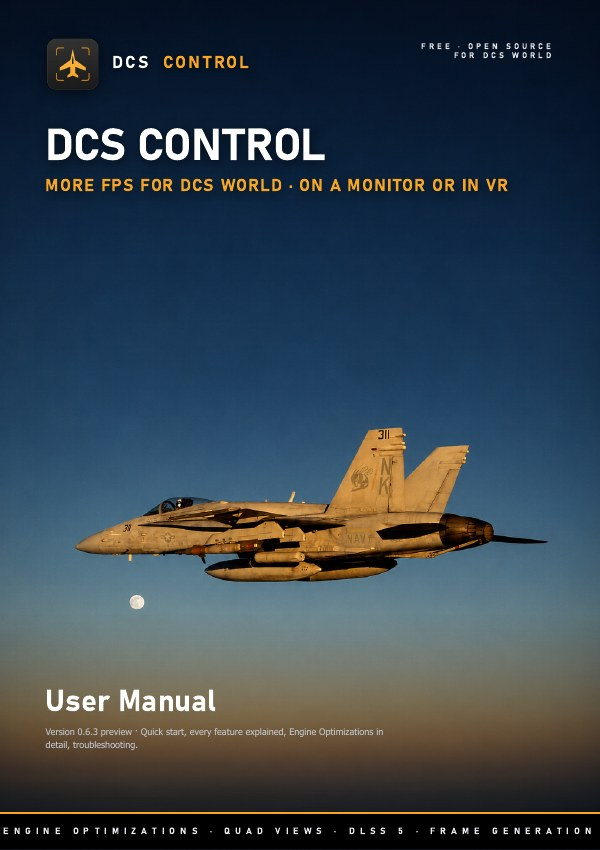
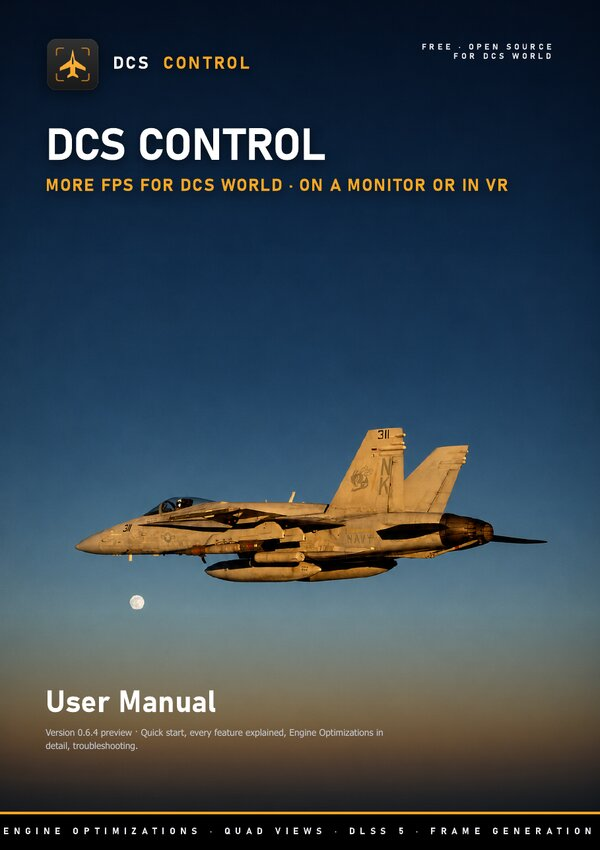
0.6.4 preview: README, guide and manual cover

diff --git a/README.md b/README.md
@@ -5,7 +5,7 @@ A free Windows app for DCS World that runs **DLSS 5, frame generation and Quad V
 - **Every pilot** (monitor, Quest, Varjo, Reverb, Pimax…): **Engine Optimizations** remove CPU work inside DCS without changing the image, about **+50-60 % FPS** at a busy airfield when DCS is CPU-bound. Once applied they stay on every time DCS starts, also from Steam or a desktop shortcut.
 - **Pimax pilots** get the full VR pipeline in one go: **Quad Views** (eye-tracked foveated rendering) + **DLSS 5** (NVIDIA neural rendering on the area you look at) + **frame generation** (OFXR, generated only when DCS falls behind), working together, plus an in-headset panel that shows what each one is doing.
 
-**New in 0.6.3:** Back to stock DCS also cleans up after a lost record (a reinstalled Windows), a new release signing key (install 0.6.3 by hand once), updates no longer pile up copies of older versions, and a bug-fix round (eye tracking on setups that report the gaze reversed, the headset panel's frame generation multiplier). 0.6.2 brought live changes while you fly and DCS 2.9.31 support.
+**New in 0.6.4:** Engine Optimizations warm up faster and keep their shader cache across Back to stock DCS (with the progress shown in the app and the headset panel), the Last flight card says whether they really ran, and frame generation's Only when needed gets **Stop generating** (Balanced by default), so a PC that just holds the refresh rate flies at its full rate instead of being held at half. Fixes: Pimax Quad View presets (a far too large focus area), DCS staying open after quitting, and an AMD Radeon note with an opt-in. 0.6.3 brought a new release signing key and Back to stock after a lost record.
 
 **New in 0.6.1:** a clearer, more compact interface (grouped menu, greyed-out settings say why, a to-scale coverage preview) and support for NVIDIA's newer DLSS 5 runtime 310.9.
 
@@ -16,7 +16,7 @@ Everything the app changes is backed up and comes back with **Back to stock DCS*
 > **Early beta.** Flown mostly on one PC so far (Pimax Crystal Super, RTX 5090, Windows 11, DCS 2.9 Steam, single player), so expect rough edges. It was built with an AI coding assistant. Bug reports are very welcome: see [Reporting a problem](docs/USER_GUIDE.md#reporting-a-problem).
 
 <p align="center">
-  <a href="https://github.com/NIGos/dcs-control/releases/download/v0.6.3-preview/DcsControl-0.6.3-User-Manual.pdf"><img src="docs/screenshots/manual-cover.jpg" alt="DCS Control User Manual (PDF)" width="300"></a><br>
+  <a href="https://github.com/NIGos/dcs-control/releases/download/v0.6.4-preview/DcsControl-0.6.4-User-Manual.pdf"><img src="docs/screenshots/manual-cover.jpg" alt="DCS Control User Manual (PDF)" width="300"></a><br>
   <sub><b>User Manual (PDF, 31 pages)</b>: Quick Start, every page of the app, the Engine Optimizations explained</sub>
 </p>
 
@@ -64,12 +64,12 @@ After each flight the Overview shows a **Last flight** summary.
 ## Quick start
 
 1. **You need:** Windows 10 or 11 (64-bit; tested on 11) and DCS World 2.9. Engine Optimizations and CPU Boost run with any graphics card; on AMD Radeon cards the multi-threaded shadows and G-buffer stay off by default (the driver lacks D3D11 command lists), so the gain is smaller. An opt-in on the Engine Optimizations page runs them on lists Windows emulates, with a smaller gain than on NVIDIA; Radeon cards have not been tested yet. For the VR features: a Pimax headset with Pimax Play (or SteamVR with the Sboys driver) and an NVIDIA RTX GPU; for DLSS 5 your own `nvngx_dlssnr.dll` (310.8, tested most, or the newer 310.9; not included).
-2. **Download** `DcsControl-0.6.3-preview-Setup.exe` from [Releases](https://github.com/NIGos/dcs-control/releases) and double-click it: it installs DCS Control for your Windows user (no administrator rights) in the folder you choose, with Start menu and desktop shortcuts, then opens it. Uninstall it from Settings → Apps. Or take `DcsControl-0.6.3-preview-win-x64.zip` for a portable copy: unzip it anywhere and double-click `DcsControl.exe` (keep the `files` folder next to it). The app tells you when a newer release is out and updates itself after checking the release signature.
+2. **Download** `DcsControl-0.6.4-preview-Setup.exe` from [Releases](https://github.com/NIGos/dcs-control/releases) and double-click it: it installs DCS Control for your Windows user (no administrator rights) in the folder you choose, with Start menu and desktop shortcuts, then opens it. Uninstall it from Settings → Apps. Or take `DcsControl-0.6.3-preview-win-x64.zip` for a portable copy: unzip it anywhere and double-click `DcsControl.exe` (keep the `files` folder next to it). The app tells you when a newer release is out and updates itself after checking the release signature.
 3. **Choose how you fly** in the right panel: **Pimax**, **Sboys**, or **Optimizations only** (monitor or another headset). **Guided setup** (on the Overview) or **Read settings from this PC** (on the DCS & headset page) can do it for you.
 4. **Tick the features** you want. Each one has its own page if you want to adjust it.
 5. **Press Launch DCS.** Engine Optimizations then stay on whenever DCS starts. The VR features and CPU Boost need DCS to be started from the app.
 
-The **[User Guide](docs/USER_GUIDE.md)** explains every feature, what it costs, the in-flight keys, and what to do when something goes wrong. Prefer to read it as a book? The **[User Manual (PDF)](https://github.com/NIGos/dcs-control/releases/download/v0.6.3-preview/DcsControl-0.6.3-User-Manual.pdf)** has a three-page Quick Start, every page of the app with numbered screenshots, and the Engine Optimizations explained one by one.
+The **[User Guide](docs/USER_GUIDE.md)** explains every feature, what it costs, the in-flight keys, and what to do when something goes wrong. Prefer to read it as a book? The **[User Manual (PDF)](https://github.com/NIGos/dcs-control/releases/download/v0.6.4-preview/DcsControl-0.6.4-User-Manual.pdf)** has a three-page Quick Start, every page of the app with numbered screenshots, and the Engine Optimizations explained one by one.
 
 ## Good to know
 

diff --git a/docs/USER_GUIDE.md b/docs/USER_GUIDE.md
@@ -1,6 +1,6 @@
 # DCS Control — User Guide
 
-**Version 0.6.3-preview (early beta).** This guide is for pilots. It explains what the app does, how to set it up and how to get help. Developer documentation lives in the [README](../README.md#for-developers) and the other files in `docs/`. The same content as a printable book, with a Quick Start and numbered screenshots: **[User Manual (PDF)](https://github.com/NIGos/dcs-control/releases/download/v0.6.3-preview/DcsControl-0.6.3-User-Manual.pdf)**.
+**Version 0.6.4-preview (early beta).** This guide is for pilots. It explains what the app does, how to set it up and how to get help. Developer documentation lives in the [README](../README.md#for-developers) and the other files in `docs/`. The same content as a printable book, with a Quick Start and numbered screenshots: **[User Manual (PDF)](https://github.com/NIGos/dcs-control/releases/download/v0.6.3-preview/DcsControl-0.6.3-User-Manual.pdf)**.
 
 > **Early beta.** DCS Control has been flown mostly on one PC (Pimax Crystal Super, RTX 5090, DCS 2.9 Steam edition). Expect rough edges. Every file it changes is backed up and can be put back with one click (**Back to stock DCS**), so trying it is safe — but please read [Requirements](#requirements) and [Launch DCS](#launch-dcs) before your first flight.
 
@@ -62,7 +62,7 @@ What it does **not** do: it does not change Windows settings, your GPU driver se
 
 ## Install
 
-**With the setup (recommended):** download `DcsControl-0.6.3-preview-Setup.exe` from the [Releases page](https://github.com/NIGos/dcs-control/releases) and double-click it. Its first page lets you choose:
+**With the setup (recommended):** download `DcsControl-0.6.4-preview-Setup.exe` from the [Releases page](https://github.com/NIGos/dcs-control/releases) and double-click it. Its first page lets you choose:
 
 - the **install folder**: `%LOCALAPPDATA%\Programs\DcsControl` unless you pick another one with **Browse...** (it shows the space needed and free). Any folder your Windows user can write to works, for example `D:\Games\DcsControl`; `Program Files` needs administrator rights, so it is refused. A folder that already holds other files gets a `DcsControl` folder inside it;
 - whether DCS Control goes in the **Start menu** and on the **desktop**.
@@ -71,7 +71,7 @@ What it does **not** do: it does not change Windows settings, your GPU driver se
 
 It waits until DCS and DCS Control are closed (the page says which one is still open). Running it again over an installed copy updates it in place; if anything goes wrong the installation is rolled back to the version you had. Its log is `%TEMP%\DcsControl-Setup.log`.
 
-**Portable, from the ZIP:** download `DcsControl-0.6.3-preview-win-x64.zip` and extract it to a folder of your choice. Then either:
+**Portable, from the ZIP:** download `DcsControl-0.6.4-preview-win-x64.zip` and extract it to a folder of your choice. Then either:
 
 - **Run it directly:** double-click `DcsControl.exe` in the extracted folder (.NET is included), or
 - **Install it:** double-click `Install DCS Control.cmd`. It does what the setup does, in a console window, with the Start menu entry but no desktop shortcut.
@@ -97,7 +97,7 @@ When DCS Control starts it asks GitHub whether a newer release is out (at most e
 
 Update refuses while DCS runs and while Launch DCS, Apply or Back to stock DCS is still working. If the update fails, the installation rolls back and the DCS Control you had opens again. A copy started from an unzipped folder is updated by installing DCS Control where the setup installed it before (Settings → Apps knows), otherwise in the standard folder (`%LOCALAPPDATA%\Programs\DcsControl`, with Start menu and desktop shortcuts); the dialog names the folder, and afterwards you can delete the unzipped one.
 
-Releases before 0.5.6 cannot update themselves: install 0.5.6 once with the setup (or the ZIP); from then on updates arrive in the app. **0.6.3 has a new release signing key**: from 0.6.2 or earlier, **Update** refuses it ("the signature does not match DCS Control's release key") and installs nothing, so install 0.6.3 once with its setup; your settings and profiles are kept, and later updates install from the app again. A dot next to the version number at the bottom of the left rail also means an update is available; × hides the banner until the next start.
+Releases before 0.5.6 cannot update themselves: install 0.5.6 once with the setup (or the ZIP); from then on updates arrive in the app. **0.6.3 has a new release signing key**: from 0.6.2 or earlier, **Update** refuses it ("the signature does not match DCS Control's release key") and installs nothing, so install 0.6.3 or later (for example 0.6.4) once with its setup; your settings and profiles are kept, and later updates install from the app again. A dot next to the version number at the bottom of the left rail also means an update is available; × hides the banner until the next start.
 
 On the **Help & support** page, under **Updates**, **Check for updates when DCS Control starts** turns the automatic check off (it is on by default) and **Check now** asks GitHub at once. Without internet nothing happens: no update is shown.
 
